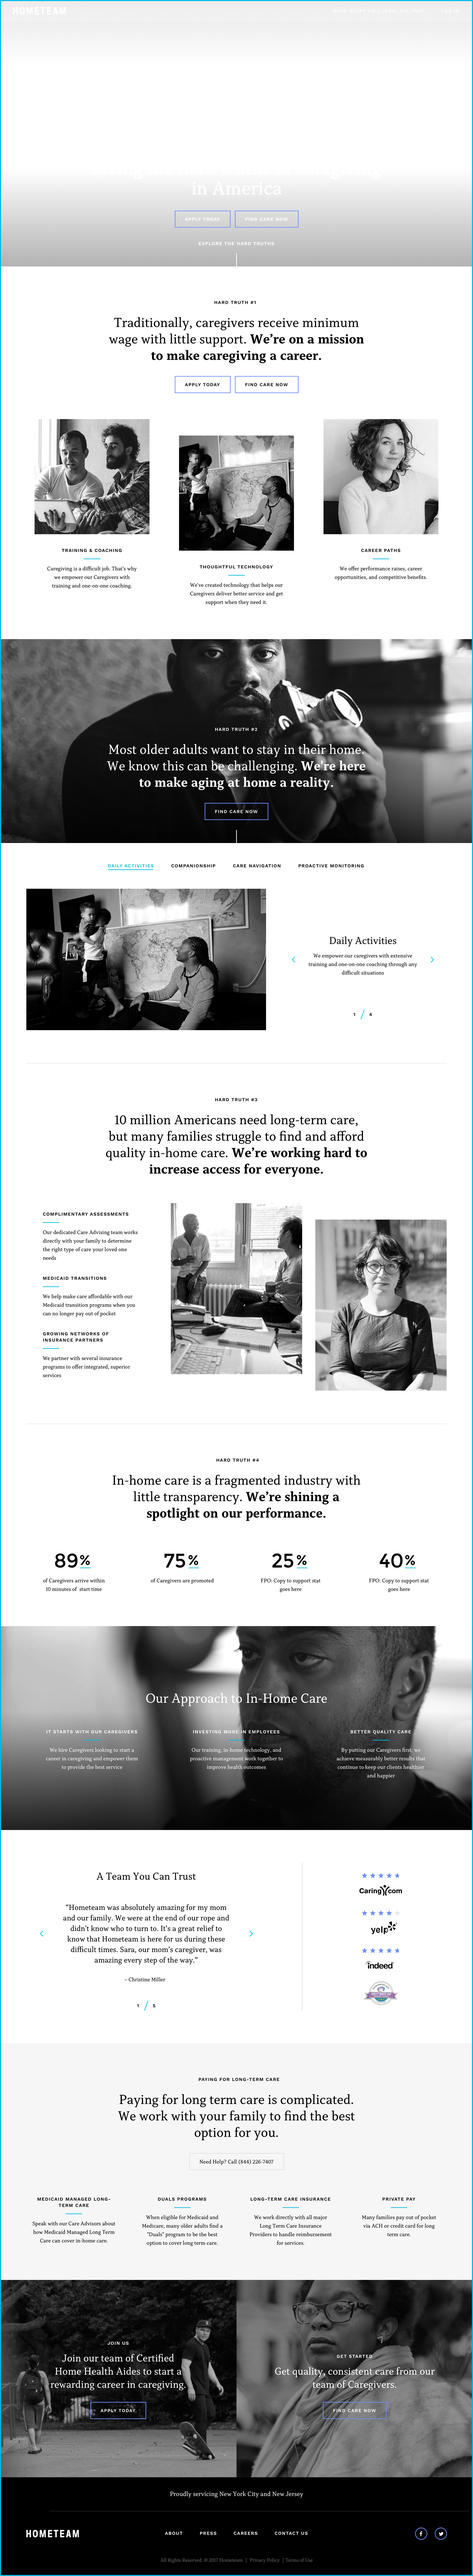
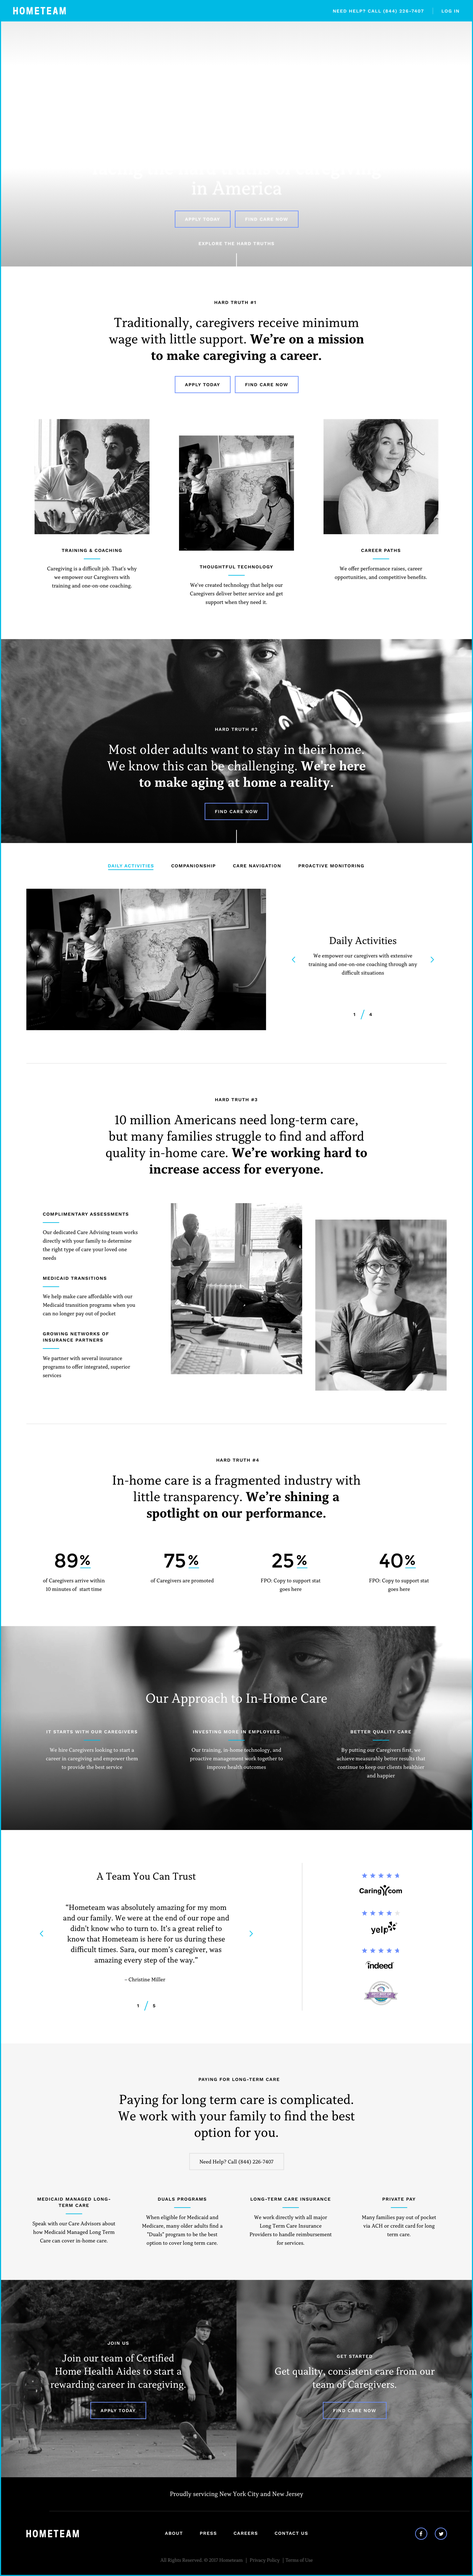
Ht- a updates

Changed region(s): [[0.0, 0.0, 1.0, 0.0312]]

diff --git a/hometeam/homepage-concepts/index.hyperesources/index_hype_generated_script.js b/hometeam/homepage-concepts/index.hyperesources/index_hype_generated_script.js
@@ -2,6 +2,6 @@
 
 (function(){(function k(){function l(a,b,d){var c=!1;null==window[a]&&(null==window[b]?(window[b]=[],window[b].push(k),a=document.getElementsByTagName("head")[0],b=document.createElement("script"),c=h,false==!0&&(c=""),b.type="text/javascript",b.src=c+"/"+d,a.appendChild(b)):window[b].push(k),c=!0);return c}var h="index.hyperesources",c="index",e="index_hype_container";if(false==!1)try{for(var f=document.getElementsByTagName("script"),
 a=0;a<f.length;a++){var b=f[a].src,d=null!=b?b.indexOf("/index_hype_generated_script.js"):-1;if(-1!=d){h=b.substr(0,d);break}}}catch(n){}if(false==!1&&(a=navigator.userAgent.match(/MSIE (\d+\.\d+)/),a=parseFloat(a&&a[1])||null,a=l("HYPE_584","HYPE_dtl_584",!0==(null!=a&&10>a||false==!0)?"HYPE-584.full.min.js":"HYPE-584.thin.min.js"),false==!0&&(a=a||l("HYPE_w_584","HYPE_wdtl_584","HYPE-584.waypoints.min.js")),a))return;f=window.HYPE.documents;
-if(null!=f[c]){b=1;a=c;do c=""+a+"-"+b++;while(null!=f[c]);d=document.getElementsByTagName("div");b=!1;for(a=0;a<d.length;a++)if(d[a].id==e&&null==d[a].getAttribute("HYP_dn")){var b=1,g=e;do e=""+g+"-"+b++;while(null!=document.getElementById(e));d[a].id=e;b=!0;break}if(!1==b)return}b=[];b=[{name:"untitledFunction",source:"function(hypeDocument, element, event) {\t\n\t\t\n\t\t\n\t\t\tmenu = hypeDocument.getElementById('menu');\n\n\twindow.onscroll = function(){\n\t\tvar scroll = window.pageYOffset || (document.body.scrollTop || document.documentElement.scrollTop);\n\t\t\n\t\tvar menuDelta = 100;\n\t\tvar menuFadeOut = 9000;\n\n\t\tif (scroll > menuDelta){\n\t\t\tmenu.classList.add('sticky')\n\t\t}\n\t\tif (scroll <= menuDelta){\n\t\t\tmenu.classList.remove('sticky')\n\t\t}\n\t\tif (scroll > menuFadeOut){\n\t\t\tmenu.classList.remove('sticky')\n\t\t}\n\t};\t\n\t\n\n\n}",identifier:"47"},{name:"untitledFunction2",source:"function(hypeDocument, element, event) {\t\t\n\t\t\n\t\t\tmenu = hypeDocument.getElementById('menub');\n\n\twindow.onscroll = function(){\n\t\tvar scroll = window.pageYOffset || (document.body.scrollTop || document.documentElement.scrollTop);\n\t\t\n\t\tvar menubDelta = 100;\n\t\tvar menubFadeOut = 9000;\n\n\t\tif (scroll > menubDelta){\n\t\t\tmenub.classList.add('sticky')\n\t\t}\n\t\tif (scroll <= menubDelta){\n\t\t\tmenub.classList.remove('sticky')\n\t\t}\n\t\tif (scroll > menubFadeOut){\n\t\t\tmenub.classList.remove('sticky')\n\t\t}\n\t};\t\n\t\n\n\t\n}",identifier:"48"},{name:"untitledFunction3",source:"function(hypeDocument, element, event) {\t\t\t\n\t\t\n\t\t\tmenu = hypeDocument.getElementById('menuc');\n\n\twindow.onscroll = function(){\n\t\tvar scroll = window.pageYOffset || (document.body.scrollTop || document.documentElement.scrollTop);\n\t\t\n\t\tvar menucDelta = 100;\n\t\tvar menucFadeOut = 9000;\n\n\t\tif (scroll > menucDelta){\n\t\t\tmenuc.classList.add('sticky')\n\t\t}\n\t\tif (scroll <= menucDelta){\n\t\t\tmenuc.classList.remove('sticky')\n\t\t}\n\t\tif (scroll > menucFadeOut){\n\t\t\tmenuc.classList.remove('sticky')\n\t\t}\n\t};\t\n\t\n\n\t\n}",identifier:"107"},{name:"untitledFunction4",source:"function(hypeDocument, element, event) {\t\n\t\t\t\n\t\t\n\t\t\tmenu = hypeDocument.getElementById('menud');\n\n\twindow.onscroll = function(){\n\t\tvar scroll = window.pageYOffset || (document.body.scrollTop || document.documentElement.scrollTop);\n\t\t\n\t\tvar menudDelta = 100;\n\t\tvar menudFadeOut = 9000;\n\n\t\tif (scroll > menudDelta){\n\t\t\tmenud.classList.add('sticky')\n\t\t}\n\t\tif (scroll <= menudDelta){\n\t\t\tmenud.classList.remove('sticky')\n\t\t}\n\t\tif (scroll > menudFadeOut){\n\t\t\tmenud.classList.remove('sticky')\n\t\t}\n\t};\t\n\t\n\n}",identifier:"109"}];d={};g={};for(a=0;a<b.length;a++)try{g[b[a].identifier]=b[a].name,d[b[a].name]=eval("(function(){return "+b[a].source+"})();")}catch(m){window.console&&window.console.log(m),d[b[a].name]=
+if(null!=f[c]){b=1;a=c;do c=""+a+"-"+b++;while(null!=f[c]);d=document.getElementsByTagName("div");b=!1;for(a=0;a<d.length;a++)if(d[a].id==e&&null==d[a].getAttribute("HYP_dn")){var b=1,g=e;do e=""+g+"-"+b++;while(null!=document.getElementById(e));d[a].id=e;b=!0;break}if(!1==b)return}b=[];b=[{name:"untitledFunction",source:"function(hypeDocument, element, event) {\t\n\t\t\n\t\t\n\t\t\tmenu = hypeDocument.getElementById('menu');\n\n\twindow.onscroll = function(){\n\t\tvar scroll = window.pageYOffset || (document.body.scrollTop || document.documentElement.scrollTop);\n\t\t\n\t\tvar menuDelta = 100;\n\t\tvar menuFadeOut = 9000;\n\n\t\tif (scroll > menuDelta){\n\t\t\tmenu.classList.add('sticky')\n\t\t}\n\t\tif (scroll <= menuDelta){\n\t\t\tmenu.classList.remove('sticky')\n\t\t}\n\t\tif (scroll > menuFadeOut){\n\t\t\tmenu.classList.remove('sticky')\n\t\t}\n\t};\t\n\t\n\n\n}",identifier:"47"},{name:"untitledFunction2",source:"function(hypeDocument, element, event) {\t\t\n\t\t\n\t\t\tmenu = hypeDocument.getElementById('menub');\n\n\twindow.onscroll = function(){\n\t\tvar scroll = window.pageYOffset || (document.body.scrollTop || document.documentElement.scrollTop);\n\t\t\n\t\tvar menubDelta = 100;\n\t\tvar menubFadeOut = 9000;\n\n\t\tif (scroll > menubDelta){\n\t\t\tmenub.classList.add('sticky')\n\t\t}\n\t\tif (scroll <= menubDelta){\n\t\t\tmenub.classList.remove('sticky')\n\t\t}\n\t\tif (scroll > menubFadeOut){\n\t\t\tmenub.classList.remove('sticky')\n\t\t}\n\t};\t\n\t\n\n\t\n}",identifier:"48"},{name:"untitledFunction3",source:"function(hypeDocument, element, event) {\t\t\t\n\t\t\n\t\t\tmenu = hypeDocument.getElementById('menuc');\n\n\twindow.onscroll = function(){\n\t\tvar scroll = window.pageYOffset || (document.body.scrollTop || document.documentElement.scrollTop);\n\t\t\n\t\tvar menucDelta = 100;\n\t\tvar menucFadeOut = 9000;\n\n\t\tif (scroll > menucDelta){\n\t\t\tmenuc.classList.add('sticky')\n\t\t}\n\t\tif (scroll <= menucDelta){\n\t\t\tmenuc.classList.remove('sticky')\n\t\t}\n\t\tif (scroll > menucFadeOut){\n\t\t\tmenuc.classList.remove('sticky')\n\t\t}\n\t};\t\n\t\n\n\t\n}",identifier:"107"},{name:"untitledFunction4",source:"function(hypeDocument, element, event) {\t\n\t\t\n\t\t\tmenu = hypeDocument.getElementById('menud');\n\n\twindow.onscroll = function(){\n\t\tvar scroll = window.pageYOffset || (document.body.scrollTop || document.documentElement.scrollTop);\n\t\t\n\t\tvar menudDelta = 100;\n\t\tvar menudFadeOut = 9000;\n\n\t\tif (scroll > menudDelta){\n\t\t\tmenud.classList.add('sticky')\n\t\t}\n\t\tif (scroll <= menudDelta){\n\t\t\tmenud.classList.remove('sticky')\n\t\t}\n\t\tif (scroll > menudFadeOut){\n\t\t\tmenud.classList.remove('sticky')\n\t\t}\n\t};\t\n\t\n\n}",identifier:"109"}];d={};g={};for(a=0;a<b.length;a++)try{g[b[a].identifier]=b[a].name,d[b[a].name]=eval("(function(){return "+b[a].source+"})();")}catch(m){window.console&&window.console.log(m),d[b[a].name]=
 function(){}}a=new HYPE_584(c,e,{"10":{p:1,n:"homepage-a-2_2x.png",g:"59",o:true,t:"@2x"},"2":{p:1,n:"homepage-b_2x.png",g:"18",o:true,t:"@2x"},"-2":{n:"blank.gif"},"3":{p:1,n:"homepage-b-sticky.png",g:"49",o:true,t:"@1x"},"11":{p:1,n:"homepage-a-3.png",g:"94",o:true,t:"@1x"},"4":{p:1,n:"homepage-b-sticky_2x.png",g:"49",o:true,t:"@2x"},"5":{p:1,n:"homepage-a-sticky.jpg",g:"51",o:true,t:"@1x"},"12":{p:1,n:"homepage-a-3_2x.png",g:"94",o:true,t:"@2x"},"6":{p:1,n:"homepage-a-sticky_2x.jpg",g:"51",o:true,t:"@2x"},"7":{p:1,n:"homepage-a.png",g:"38",o:true,t:"@1x"},"-1":{n:"PIE.htc"},"0":{n:"hero-vid.mp4",g:"16",t:"video/mp4"},"8":{p:1,n:"homepage-a_2x.png",g:"38",o:true,t:"@2x"},"1":{p:1,n:"homepage-b.png",g:"18",o:true,t:"@1x"},"9":{p:1,n:"homepage-a-2.png",g:"59",o:true,t:"@1x"}},h,[],d,[{n:"Concept A",o:"30",X:[0]},{n:"Concept A 2",o:"56",X:[1]},{n:"Concept A 3",o:"71",X:[2]},{n:"Concept B",o:"1",X:[3]}],[{A:{a:[{p:4,h:"47"}]},o:"32",p:"600px",cA:false,Y:1440,Z:7872,c:"#FFFFFF",L:[],bY:1,d:1440,U:{},T:{kTimelineDefaultIdentifier:{i:"kTimelineDefaultIdentifier",n:"Main Timeline",z:7.14,b:[],a:[{y:0,p:1,i:"Video Track",z:7.14,o:"113",f:"a"}],f:30}},bZ:180,O:["111","116","115","117","118","119","120","121","110","114","113","112"],n:"Untitled Layout","_":0,v:{"120":{b:7,z:8,K:"None",c:99,L:"None",d:19,aS:3,M:0,e:0.59999999999999998,bD:"none",N:0,aT:3,dB:"button",O:0,g:"#333333",aU:3,P:0,bF:"115",aV:3,j:"absolute",k:"div",aI:4,aJ:4,aK:4,X:-0.32954499999999998,aL:4,A:"#A0A0A0",Y:19,B:"#A0A0A0",Z:"break-word",r:"inline",C:"#A0A0A0",D:"#A0A0A0",t:11,aA:{a:[{d:1.1000000000000001,p:1,g:1,e:"71"}]},F:"center",v:"normal",G:"#FFFFFF",aP:"pointer",w:"Concept A-3<br>",x:"visible",I:"None",a:725,y:"preserve",J:"None"},"117":{G:"#CA3725",aU:8,aV:8,r:"inline",s:"Helvetica,Arial,Sans-Serif",t:12,Z:"break-word",v:"bold",w:"PROTOTYPE NAVIGATION<br>",bF:"115",A:"#CA3725",x:"visible",yy:"nowrap",B:"#CA3725",y:"preserve",j:"absolute",C:"#CA3725",z:5,k:"div",D:"#CA3725",aS:8,aT:8,a:34,b:5},"112":{k:"div",x:"hidden",c:1440,d:810,z:1,a:0,j:"absolute",b:40},"115":{x:"visible",k:"div",c:1440,d:40,z:8,e:1,a:0,j:"absolute",b:0},"121":{b:7,z:9,K:"None",c:99,L:"None",d:19,aS:3,M:0,e:0.59999999999999998,bD:"none",N:0,aT:3,dB:"button",O:0,g:"#333333",aU:3,P:0,bF:"115",aV:3,j:"absolute",k:"div",aI:4,aJ:4,aK:4,X:-0.32954499999999998,aL:4,A:"#A0A0A0",Y:19,B:"#A0A0A0",Z:"break-word",r:"inline",C:"#A0A0A0",D:"#A0A0A0",t:11,aA:{a:[{d:1.1000000000000001,p:1,g:1,e:"1"}]},F:"center",v:"normal",G:"#FFFFFF",aP:"pointer",w:"Concept B",x:"visible",I:"None",a:840,y:"preserve",J:"None"},"110":{h:"38",p:"no-repeat",x:"visible",a:0,q:"100% 100%",b:40,j:"absolute",dB:"img",z:2,k:"div",c:1440,d:7832,r:"inline"},"118":{b:7,z:6,K:"None",c:99,L:"None",d:19,aS:3,M:0,e:0.29999999999999999,bD:"none",N:0,aT:3,dB:"button",O:0,g:"#333333",aU:3,P:0,bF:"115",aV:3,j:"absolute",aI:4,k:"div",aJ:4,aK:4,X:-0.32954499999999998,aL:4,A:"#A0A0A0",Y:19,B:"#A0A0A0",Z:"break-word",r:"inline",C:"#A0A0A0",D:"#A0A0A0",t:11,F:"center",v:"normal",G:"#FFFFFF",aP:"pointer",w:"Concept A",x:"visible",I:"None",a:495,y:"preserve",J:"None"},"113":{aR:"1",x:"visible",bE:"16",a:0,b:0,j:"absolute",bF:"112",c:1440,k:"video",z:5,d:810,aO:"0",aQ:"1",aH:"1"},"116":{c:1440,d:40,I:"None",J:"None",K:"None",g:"#D3D5D7",L:"None",M:0,N:0,bF:"115",A:"#D8DDE4",x:"visible",j:"absolute",B:"#D8DDE4",k:"div",O:0,C:"#D8DDE4",z:1,P:0,D:"#D8DDE4",a:0,b:0},"111":{h:"51",p:"no-repeat",x:"visible",i:"menu",q:"100% 100%",b:-65,a:0,j:"absolute",z:9,k:"div",dB:"img",d:65,c:1440,r:"inline"},"119":{b:7,z:7,K:"None",c:99,L:"None",d:19,aS:3,M:0,e:0.59999999999999998,bD:"none",N:0,aT:3,dB:"button",O:0,g:"#333333",aU:3,P:0,bF:"115",aV:3,j:"absolute",k:"div",aI:4,aJ:4,aK:4,X:-0.32954499999999998,aL:4,A:"#A0A0A0",Y:19,B:"#A0A0A0",Z:"break-word",r:"inline",C:"#A0A0A0",D:"#A0A0A0",t:11,aA:{a:[{d:1.1000000000000001,p:1,g:1,e:"56"}]},F:"center",v:"normal",G:"#FFFFFF",aP:"pointer",w:"Concept A-2",x:"visible",I:"None",a:610,y:"preserve",J:"None"},"114":{c:1440,d:810,I:"None",J:"None",K:"None",g:"rgba(0, 0, 0, 0.200)",L:"None",M:0,w:"",N:0,A:"#D8DDE4",x:"visible",j:"absolute",B:"#D8DDE4",k:"div",O:0,C:"#D8DDE4",z:6,bF:"112",D:"#D8DDE4",P:0,a:0,F:"left",b:0}}},{A:{a:[{p:4,h:"107"}]},o:"58",p:"600px",cA:false,Y:1440,Z:7872,c:"#FFFFFF",L:[],bY:1,d:1440,U:{},T:{kTimelineDefaultIdentifier:{i:"kTimelineDefaultIdentifier",n:"Main Timeline",z:7.14,b:[],a:[{y:0,p:1,i:"Video Track",z:7.14,o:"125",f:"a"}],f:30}},bZ:180,O:["133","130","126","127","129","128","131","132","122","124","125","123"],n:"Untitled Layout","_":1,v:{"128":{b:7,z:7,K:"None",c:99,L:"None",d:19,aS:3,M:0,e:0.29999999999999999,bD:"none",N:0,aT:3,dB:"button",O:0,g:"#333333",aU:3,P:0,bF:"126",aV:3,j:"absolute",aI:4,k:"div",aJ:4,aK:4,X:-0.32954499999999998,aL:4,A:"#A0A0A0",Y:19,B:"#A0A0A0",Z:"break-word",r:"inline",C:"#A0A0A0",D:"#A0A0A0",t:11,F:"center",v:"normal",G:"#FFFFFF",aP:"pointer",w:"Concept A-2",x:"visible",I:"None",a:610,y:"preserve",J:"None"},"123":{k:"div",x:"hidden",c:1440,d:810,z:1,a:0,j:"absolute",b:40},"126":{x:"visible",k:"div",c:1440,d:40,z:3,e:1,a:0,j:"absolute",b:0},"132":{b:7,z:9,K:"None",c:99,L:"None",d:19,aS:3,M:0,e:0.59999999999999998,bD:"none",N:0,aT:3,dB:"button",O:0,g:"#333333",aU:3,P:0,bF:"126",aV:3,j:"absolute",k:"div",aI:4,aJ:4,aK:4,X:-0.32954499999999998,aL:4,A:"#A0A0A0",Y:19,B:"#A0A0A0",Z:"break-word",r:"inline",C:"#A0A0A0",D:"#A0A0A0",t:11,aA:{a:[{d:1.1000000000000001,p:1,g:1,e:"1"}]},F:"center",v:"normal",G:"#FFFFFF",aP:"pointer",w:"Concept B",x:"visible",I:"None",a:840,y:"preserve",J:"None"},"129":{b:7,z:6,K:"None",c:99,L:"None",d:19,aS:3,M:0,e:0.59999999999999998,bD:"none",N:0,aT:3,dB:"button",O:0,g:"#333333",aU:3,P:0,bF:"126",aV:3,j:"absolute",k:"div",aI:4,aJ:4,aK:4,X:-0.32954499999999998,aL:4,A:"#A0A0A0",Y:19,B:"#A0A0A0",Z:"break-word",r:"inline",C:"#A0A0A0",D:"#A0A0A0",t:11,aA:{a:[{d:1.1000000000000001,p:1,g:1,e:"30"}]},F:"center",v:"normal",G:"#FFFFFF",aP:"pointer",w:"Concept A",x:"visible",I:"None",a:495,y:"preserve",J:"None"},"124":{c:1440,d:810,I:"None",J:"None",K:"None",g:"rgba(0, 0, 0, 0.400)",L:"None",M:0,w:"",N:0,A:"#D8DDE4",x:"visible",j:"absolute",B:"#D8DDE4",k:"div",O:0,C:"#D8DDE4",z:6,bF:"123",D:"#D8DDE4",P:0,a:0,F:"left",b:0},"130":{c:1440,d:40,I:"None",J:"None",K:"None",g:"#D3D5D7",L:"None",M:0,N:0,bF:"126",A:"#D8DDE4",x:"visible",j:"absolute",B:"#D8DDE4",k:"div",O:0,C:"#D8DDE4",z:1,P:0,D:"#D8DDE4",a:0,b:0},"127":{G:"#CA3725",aU:8,aV:8,r:"inline",s:"Helvetica,Arial,Sans-Serif",t:12,Z:"break-word",v:"bold",w:"PROTOTYPE NAVIGATION<br>",bF:"126",A:"#CA3725",x:"visible",yy:"nowrap",B:"#CA3725",y:"preserve",j:"absolute",C:"#CA3725",z:5,k:"div",D:"#CA3725",aS:8,aT:8,a:34,b:5},"122":{h:"59",p:"no-repeat",x:"visible",a:0,q:"100% 100%",b:40,j:"absolute",dB:"img",z:2,k:"div",c:1440,d:7832,r:"inline"},"133":{h:"51",p:"no-repeat",x:"visible",i:"menuc",q:"100% 100%",b:-65,a:0,j:"absolute",z:10,k:"div",dB:"img",d:65,c:1440,r:"inline"},"125":{bI:0,aR:"1",x:"visible",bE:"16",a:0,b:0,j:"absolute",bF:"123",z:5,k:"video",aO:"0",d:810,c:1440,aQ:"1",aH:"1"},"131":{b:7,z:8,K:"None",c:99,L:"None",d:19,aS:3,M:0,e:0.59999999999999998,bD:"none",N:0,aT:3,dB:"button",O:0,g:"#333333",aU:3,P:0,bF:"126",aV:3,j:"absolute",k:"div",aI:4,aJ:4,aK:4,X:-0.32954499999999998,aL:4,A:"#A0A0A0",Y:19,B:"#A0A0A0",Z:"break-word",r:"inline",C:"#A0A0A0",D:"#A0A0A0",t:11,aA:{a:[{d:1.1000000000000001,p:1,g:1,e:"71"}]},F:"center",v:"normal",G:"#FFFFFF",aP:"pointer",w:"Concept A-3<br>",x:"visible",I:"None",a:725,y:"preserve",J:"None"}}},{A:{a:[{p:4,h:"109"}]},o:"73",p:"600px",cA:false,Y:1440,Z:7872,c:"#FFFFFF",L:[],bY:1,d:1440,U:{},T:{kTimelineDefaultIdentifier:{i:"kTimelineDefaultIdentifier",n:"Main Timeline",z:7.14,b:[],a:[{y:0,p:1,i:"Video Track",z:7.14,o:"142",f:"a"}],f:30}},bZ:180,O:["145","135","134","136","137","138","139","140","144","143","142","141"],n:"Untitled Layout","_":2,v:{"139":{b:7,z:8,K:"None",c:99,L:"None",d:19,aS:3,M:0,e:0.29999999999999999,bD:"none",N:0,aT:3,dB:"button",O:0,g:"#333333",aU:3,P:0,bF:"134",aV:3,j:"absolute",aI:4,k:"div",aJ:4,aK:4,X:-0.32954499999999998,aL:4,A:"#A0A0A0",Y:19,B:"#A0A0A0",Z:"break-word",r:"inline",C:"#A0A0A0",D:"#A0A0A0",t:11,F:"center",v:"normal",G:"#FFFFFF",aP:"pointer",w:"Concept A-3<br>",x:"visible",I:"None",a:725,y:"preserve",J:"None"},"134":{x:"visible",k:"div",c:1440,d:40,z:12,e:1,a:0,j:"absolute",b:0},"140":{b:7,z:9,K:"None",c:99,L:"None",d:19,aS:3,M:0,e:0.59999999999999998,bD:"none",N:0,aT:3,dB:"button",O:0,g:"#333333",aU:3,P:0,bF:"134",aV:3,j:"absolute",k:"div",aI:4,aJ:4,aK:4,X:-0.32954499999999998,aL:4,A:"#A0A0A0",Y:19,B:"#A0A0A0",Z:"break-word",r:"inline",C:"#A0A0A0",D:"#A0A0A0",t:11,aA:{a:[{d:1.1000000000000001,p:1,g:1,e:"1"}]},F:"center",v:"normal",G:"#FFFFFF",aP:"pointer",w:"Concept B",x:"visible",I:"None",a:840,y:"preserve",J:"None"},"145":{h:"51",p:"no-repeat",x:"visible",i:"menud",q:"100% 100%",b:-65,a:0,j:"absolute",z:13,k:"div",dB:"img",d:65,c:1440,r:"inline"},"137":{b:7,z:6,K:"None",c:99,L:"None",d:19,aS:3,M:0,e:0.59999999999999998,bD:"none",N:0,aT:3,dB:"button",O:0,g:"#333333",aU:3,P:0,bF:"134",aV:3,j:"absolute",k:"div",aI:4,aJ:4,aK:4,X:-0.32954499999999998,aL:4,A:"#A0A0A0",Y:19,B:"#A0A0A0",Z:"break-word",r:"inline",C:"#A0A0A0",D:"#A0A0A0",t:11,aA:{a:[{d:1.1000000000000001,p:1,g:1,e:"30"}]},F:"center",v:"normal",G:"#FFFFFF",aP:"pointer",w:"Concept A",x:"visible",I:"None",a:495,y:"preserve",J:"None"},"143":{c:1440,d:810,I:"None",J:"None",K:"None",g:"rgba(0, 0, 0, 0.400)",L:"None",M:0,w:"",N:0,A:"#D8DDE4",x:"visible",j:"absolute",B:"#D8DDE4",k:"div",O:0,C:"#D8DDE4",z:6,bF:"141",D:"#D8DDE4",P:0,a:0,F:"left",b:0},"135":{c:1440,d:40,I:"None",J:"None",K:"None",g:"#D3D5D7",L:"None",M:0,N:0,bF:"134",A:"#D8DDE4",x:"visible",j:"absolute",B:"#D8DDE4",k:"div",O:0,C:"#D8DDE4",z:1,P:0,D:"#D8DDE4",a:0,b:0},"141":{k:"div",x:"hidden",c:1440,d:810,z:1,a:0,j:"absolute",b:40},"138":{b:7,z:7,K:"None",c:99,L:"None",d:19,aS:3,M:0,e:0.59999999999999998,bD:"none",N:0,aT:3,dB:"button",O:0,g:"#333333",aU:3,P:0,bF:"134",aV:3,j:"absolute",k:"div",aI:4,aJ:4,aK:4,X:-0.32954499999999998,aL:4,A:"#A0A0A0",Y:19,B:"#A0A0A0",Z:"break-word",r:"inline",C:"#A0A0A0",D:"#A0A0A0",t:11,aA:{a:[{d:1.1000000000000001,p:1,g:1,e:"56"}]},F:"center",v:"normal",G:"#FFFFFF",aP:"pointer",w:"Concept A-2",x:"visible",I:"None",a:610,y:"preserve",J:"None"},"144":{w:"",h:"94",p:"no-repeat",x:"visible",a:0,q:"100% 100%",b:40,j:"absolute",dB:"img",z:11,k:"div",c:1440,d:7832.0000000000009,r:"inline"},"136":{G:"#CA3725",aU:8,aV:8,r:"inline",s:"Helvetica,Arial,Sans-Serif",t:12,Z:"break-word",v:"bold",w:"PROTOTYPE NAVIGATION<br>",bF:"134",A:"#CA3725",x:"visible",yy:"nowrap",B:"#CA3725",y:"preserve",j:"absolute",C:"#CA3725",z:5,k:"div",D:"#CA3725",aS:8,aT:8,a:34,b:5},"142":{bI:0,aR:"1",x:"visible",bE:"16",a:0,b:0,j:"absolute",bF:"141",z:5,k:"video",aO:"0",d:810,c:1440,aQ:"1",aH:"1"}}},{A:{a:[{p:4,h:"48"}]},o:"3",p:"600px",cA:false,Y:1440,Z:8308,c:"#FFFFFF",L:[],bY:1,d:1440,U:{},T:{kTimelineDefaultIdentifier:{i:"kTimelineDefaultIdentifier",n:"Main Timeline",z:7.14,b:[],a:[{y:0,p:1,i:"Video Track",z:7.14,o:"149",f:"a"},{f:"c",p:2,y:7.14,z:0,i:"ActionHandler",s:{a:[{i:0,b:"kTimelineDefaultIdentifier",p:9,symbolOid:"2"}]},o:"kTimelineDefaultIdentifier"}],f:30}},bZ:180,O:["146","152","151","153","154","155","156","157","150","148","147","149"],n:"Untitled Layout","_":3,v:{"156":{b:7,z:8,K:"None",c:99,L:"None",d:19,aS:3,M:0,e:0.59999999999999998,bD:"none",N:0,aT:3,dB:"button",O:0,g:"#333333",aU:3,P:0,bF:"151",aV:3,j:"absolute",k:"div",aI:4,aJ:4,aK:4,X:-0.32954499999999998,aL:4,A:"#A0A0A0",Y:19,B:"#A0A0A0",Z:"break-word",r:"inline",C:"#A0A0A0",D:"#A0A0A0",t:11,aA:{a:[{d:1.1000000000000001,p:1,g:1,e:"71"}]},F:"center",v:"normal",G:"#FFFFFF",aP:"pointer",w:"Concept A-3<br>",x:"visible",I:"None",a:725,y:"preserve",J:"None"},"151":{x:"visible",k:"div",c:1440,d:40,z:3,e:1,a:0,j:"absolute",b:0},"148":{c:1440,d:810,I:"None",J:"None",K:"None",g:"rgba(0, 0, 0, 0.200)",L:"None",M:0,w:"",N:0,A:"#D8DDE4",x:"visible",j:"absolute",B:"#D8DDE4",k:"div",O:0,C:"#D8DDE4",z:5,bF:"147",D:"#D8DDE4",P:0,a:0,F:"left",b:0},"154":{b:7,z:6,K:"None",c:99,L:"None",d:19,aS:3,M:0,e:0.59999999999999998,bD:"none",N:0,aT:3,dB:"button",O:0,g:"#333333",aU:3,P:0,bF:"151",aV:3,j:"absolute",k:"div",aI:4,aJ:4,aK:4,X:-0.32954499999999998,aL:4,A:"#A0A0A0",Y:19,B:"#A0A0A0",Z:"break-word",r:"inline",C:"#A0A0A0",D:"#A0A0A0",t:11,aA:{a:[{d:1.1000000000000001,p:1,g:1,e:"30"}]},F:"center",v:"normal",G:"#FFFFFF",aP:"pointer",w:"Concept A",x:"visible",I:"None",a:495,y:"preserve",J:"None"},"157":{b:7,z:9,K:"None",c:99,L:"None",d:19,aS:3,M:0,e:0.29999999999999999,bD:"none",N:0,aT:3,dB:"button",O:0,g:"#333333",aU:3,P:0,bF:"151",aV:3,j:"absolute",aI:4,k:"div",aJ:4,aK:4,X:-0.32954499999999998,aL:4,A:"#A0A0A0",Y:19,B:"#A0A0A0",Z:"break-word",r:"inline",C:"#A0A0A0",D:"#A0A0A0",t:11,F:"center",v:"normal",G:"#FFFFFF",aP:"pointer",w:"Concept B",x:"visible",I:"None",a:840,y:"preserve",J:"None"},"146":{h:"49",p:"no-repeat",x:"visible",i:"menub",q:"100% 100%",b:-70,a:0,j:"absolute",z:9,k:"div",dB:"img",d:70,c:1440,r:"inline"},"152":{c:1440,d:40,I:"None",J:"None",K:"None",g:"#D3D5D7",L:"None",M:0,N:0,bF:"151",A:"#D8DDE4",x:"visible",j:"absolute",B:"#D8DDE4",k:"div",O:0,C:"#D8DDE4",z:1,P:0,D:"#D8DDE4",a:0,b:0},"149":{aR:"1",x:"visible",bE:"16",a:0,b:56,j:"absolute",bF:"147",c:1440,k:"video",z:6,d:810,aO:"0",aQ:"1",aH:"1"},"150":{h:"18",p:"no-repeat",x:"visible",a:0,q:"100% 100%",b:40,j:"absolute",dB:"img",z:2,k:"div",c:1440,d:8268,r:"inline"},"155":{b:7,z:7,K:"None",c:99,L:"None",d:19,aS:3,M:0,e:0.59999999999999998,bD:"none",N:0,aT:3,dB:"button",O:0,g:"#333333",aU:3,P:0,bF:"151",aV:3,j:"absolute",k:"div",aI:4,aJ:4,aK:4,X:-0.32954499999999998,aL:4,A:"#A0A0A0",Y:19,B:"#A0A0A0",Z:"break-word",r:"inline",C:"#A0A0A0",D:"#A0A0A0",t:11,aA:{a:[{d:1.1000000000000001,p:1,g:1,e:"56"}]},F:"center",v:"normal",G:"#FFFFFF",aP:"pointer",w:"Concept A-2",x:"visible",I:"None",a:610,y:"preserve",J:"None"},"147":{k:"div",x:"hidden",c:1440,d:810,z:1,a:0,j:"absolute",b:40},"153":{G:"#CA3725",aU:8,aV:8,r:"inline",s:"Helvetica,Arial,Sans-Serif",t:12,Z:"break-word",v:"bold",w:"PROTOTYPE NAVIGATION<br>",bF:"151",A:"#CA3725",x:"visible",yy:"nowrap",B:"#CA3725",y:"preserve",j:"absolute",C:"#CA3725",z:5,k:"div",D:"#CA3725",aS:8,aT:8,a:34,b:5}}}],{},g,{},null,false,true,-1,true,true,false,true);f[c]=a.API;document.getElementById(e).setAttribute("HYP_dn",
 c);a.z_o(this.body)})();})();
